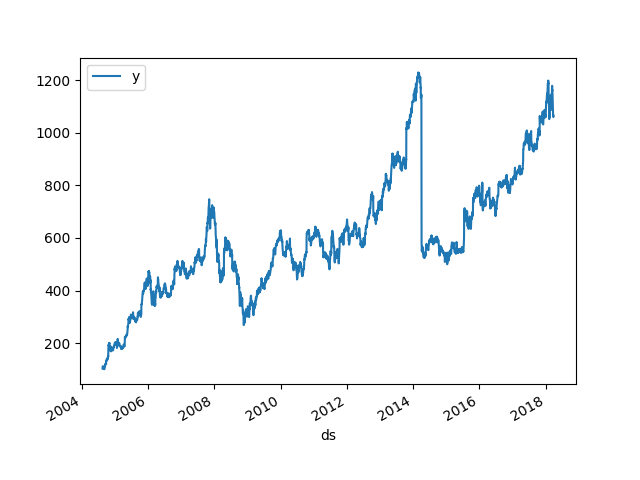
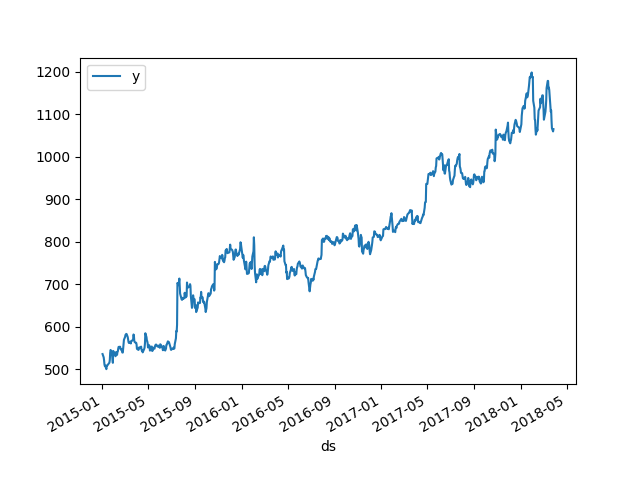
updated date ranges for more accurate prediction

diff --git a/prediction.py b/prediction.py
@@ -9,6 +9,7 @@ import quandl
 quandl.ApiConfig.api_key = 'NxTUTAQswbKs5ybBbwfK'
 #Predicting Stock Price with Prophet
 df = quandl.get('WIKI/GOOGL')
+df = df['2015-01':'2020-04']
 fig3 = df.plot(y='High')
 fig3.figure.savefig('/home/dev/Stonks/preIndexReset.png')
 df = df.reset_index(0)

diff --git a/marketCap.py b/marketCap.py
@@ -15,5 +15,5 @@ def marketCap(name):
     marketCap = data.get_quote_yahoo(name)['marketCap']
     temp =  marketCap[name]
     return temp
-i = marketCap('WIKI/AAPL')
+i = marketCap('WIKI/GOOGL')
 print(i)
